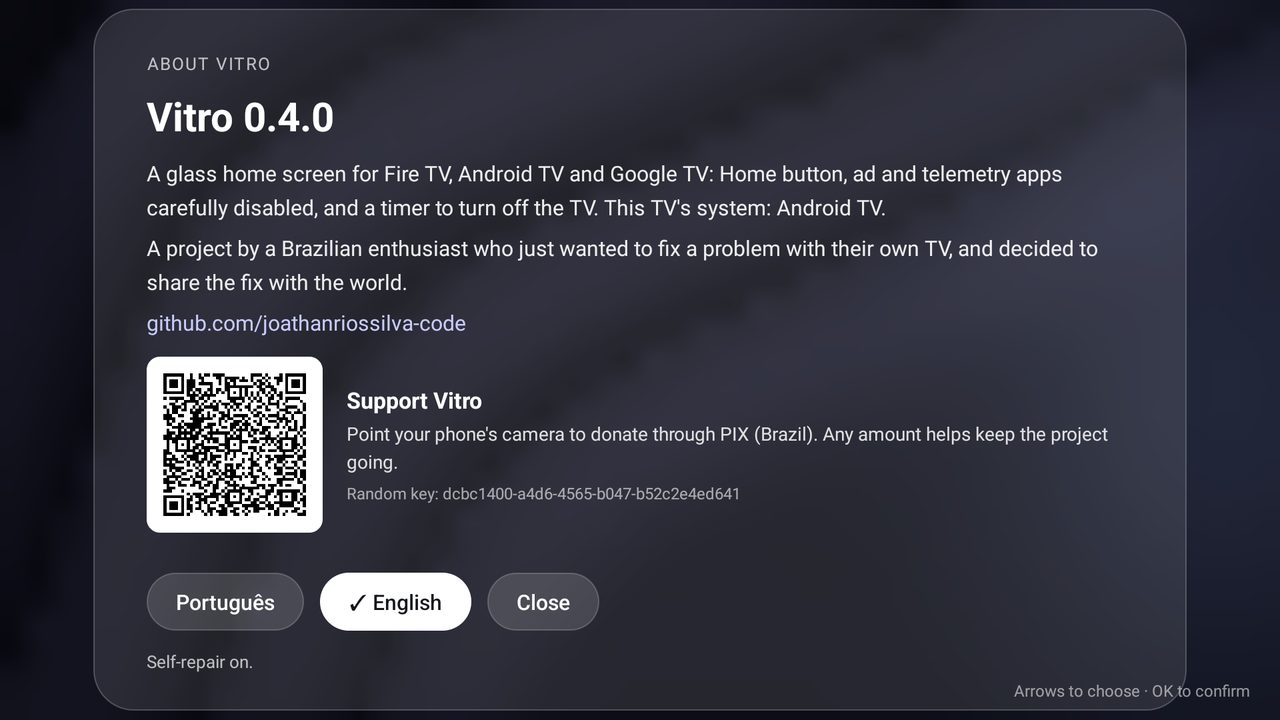
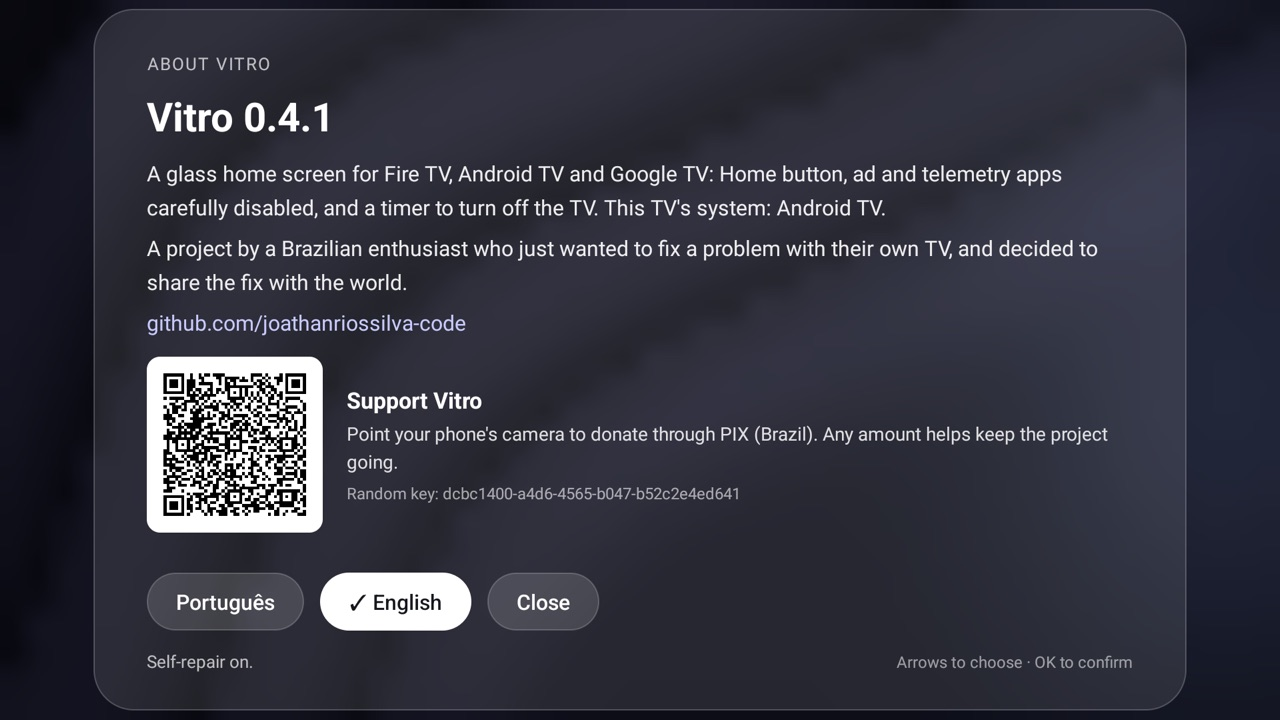
Vitro 0.4.1: a dica do controle fica dentro do quadro de vidro
A dica "Setas para escolher · OK para confirmar" ficava no canto da tela e, no Sobre com o QR do PIX, o quadro
passava por cima dela. Agora ela fica dentro do quadro, na mesma linha do aviso, sem aumentar a altura.
Fotos do Sobre nos guias atualizadas.

Changed region(s): [[0.6875, 0.9167, 0.9688, 0.9778], [0.2188, 0.1528, 0.2812, 0.1833]]

diff --git a/launcher/src/app/vitro/launcher/GlassActivity.java b/launcher/src/app/vitro/launcher/GlassActivity.java
@@ -106,18 +106,23 @@ abstract class GlassActivity extends Activity {
         klp.topMargin = px(18);
         panel.addView(keys, klp);
 
+        // Última linha do painel: o aviso à esquerda e, à direita, a dica do controle. A dica fica dentro do vidro
+        // e na mesma linha do aviso, sem aumentar o painel; no canto da tela, um painel alto passava por cima dela.
+        LinearLayout foot = new LinearLayout(this);
+        foot.setOrientation(LinearLayout.HORIZONTAL);
+        foot.setGravity(Gravity.BOTTOM);
         status = label(13, false, 0xB3FFFFFF);
-        LinearLayout.LayoutParams slp = new LinearLayout.LayoutParams(ViewGroup.LayoutParams.MATCH_PARENT, ViewGroup.LayoutParams.WRAP_CONTENT);
-        slp.topMargin = px(14);
-        panel.addView(status, slp);
-
+        foot.addView(status, new LinearLayout.LayoutParams(0, ViewGroup.LayoutParams.WRAP_CONTENT, 1f));
         TextView hint = label(12, false, 0x8CFFFFFF);
         hint.setText(L.t("Setas para escolher · OK para confirmar", "Arrows to choose · OK to confirm"));
-        FrameLayout.LayoutParams hlp = new FrameLayout.LayoutParams(ViewGroup.LayoutParams.WRAP_CONTENT,
-                ViewGroup.LayoutParams.WRAP_CONTENT, Gravity.BOTTOM | Gravity.END);
-        hlp.rightMargin = px(22);
-        hlp.bottomMargin = px(14);
-        root.addView(hint, hlp);
+        hint.setSingleLine(true);
+        LinearLayout.LayoutParams hlp = new LinearLayout.LayoutParams(ViewGroup.LayoutParams.WRAP_CONTENT,
+                ViewGroup.LayoutParams.WRAP_CONTENT);
+        hlp.leftMargin = px(16);
+        foot.addView(hint, hlp);
+        LinearLayout.LayoutParams slp = new LinearLayout.LayoutParams(ViewGroup.LayoutParams.MATCH_PARENT, ViewGroup.LayoutParams.WRAP_CONTENT);
+        slp.topMargin = px(14);
+        panel.addView(foot, slp);
         return root;
     }
 
